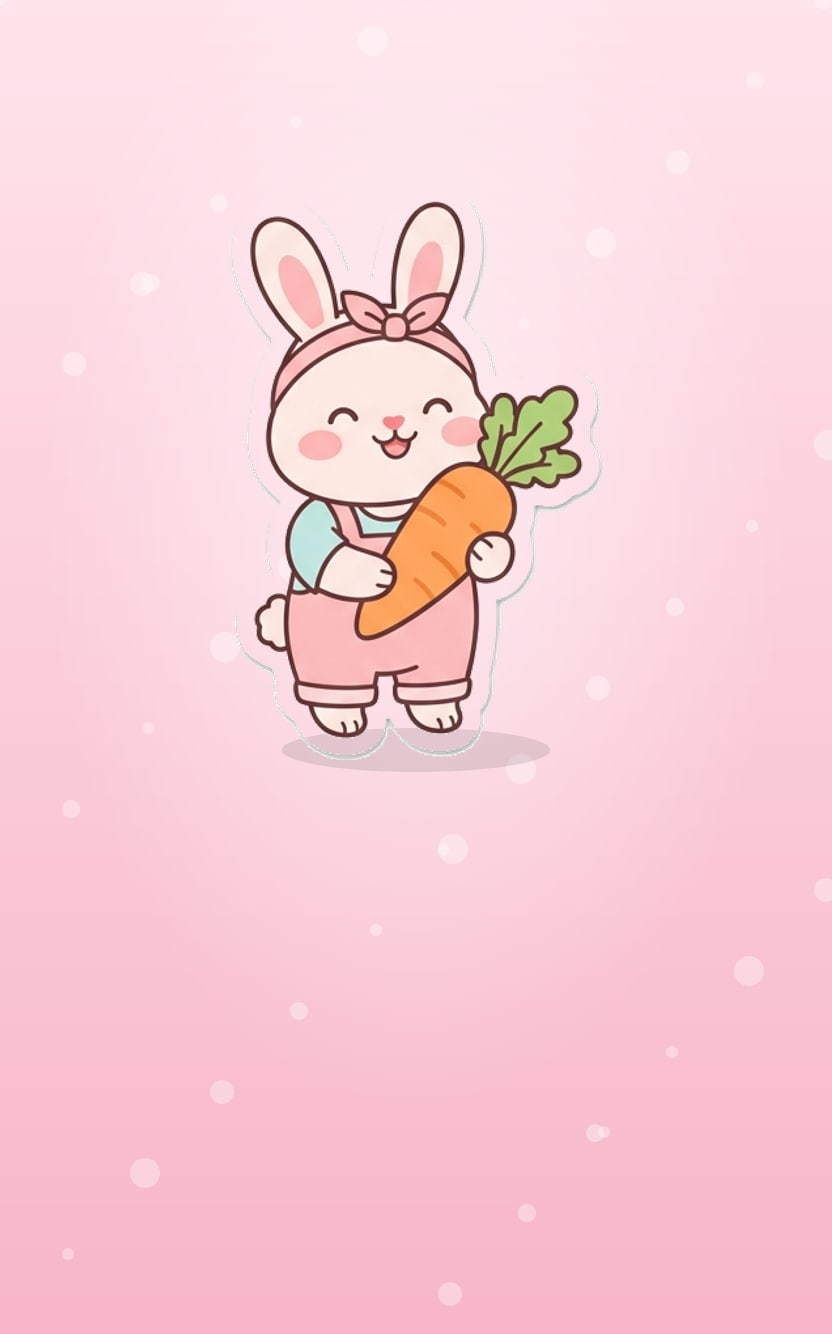
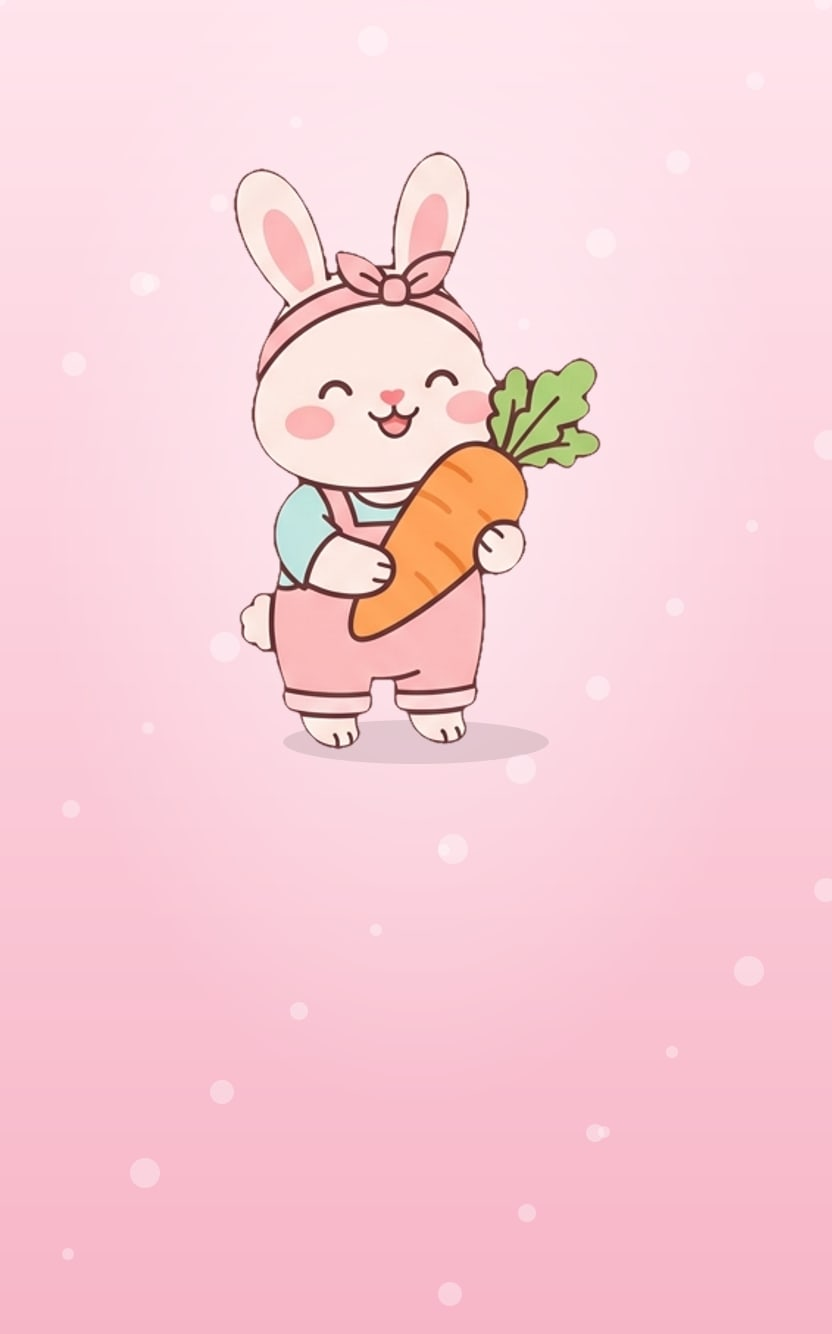
character plates rebuilt from the clean stickers (no white die-cut borders); BEAR now uses the big cocoa Toomdol

Changed region(s): [[0.2812, 0.1229, 0.7188, 0.584], [0.625, 0.5532, 0.6562, 0.584]]

diff --git a/scripts/make-character-plates.js b/scripts/make-character-plates.js
@@ -1,66 +1,32 @@
 #!/usr/bin/env node
-// MAZA 플래너 캐릭터(토끼·고양이·곰, 우리가 만든 그림)를 오려서 파스텔 배경 위에 올린 플레이트를 굽는다.
-//   node scripts/make-character-plates.js <planner/assets 폴더>
-// 스티커 시트에서 칸 하나를 잘라 → 가장자리에서 이어진 흰 바탕만 투명하게 → 배경 위 가운데 위쪽에 올린다 (아래쪽은 이름 자리).
+// 캐릭터 플레이트 6장 (메이커 기본 디자인): 깨끗하게 오린 스티커(assets/stickers) 를 파스텔 배경 위에 올린다.
+//   node scripts/make-character-plates.js
 const sharp = require('sharp');
 const path = require('path');
-
-const SRC = process.argv[2] || '/Volumes/M/GitHub/planner/assets';
+const A = path.join(__dirname, '..', 'assets');
 const W = 832, H = 1334;
 
-// [파일, 열 수, 행 수, 열, 행] 또는 이미 투명한 PNG
 const PLATES = [
-  { key: 'bear',   src: ['big_bear_cropped.png'],          bg: ['#fff3e4', '#f7c9a8'], dots: '#ffffff' },
-  { key: 'bunny',  src: ['ai_secret_rabbit.jpg', 2, 2, 0, 0], bg: ['#ffe4ec', '#f7b6c8'], dots: '#ffffff' },
-  { key: 'dream',  src: ['ai_secret_rabbit.jpg', 2, 2, 1, 0], bg: ['#1d2550', '#3b4a8f'], dots: '#fff6c8', stars: true },
-  { key: 'kitty',  src: ['ai_cat_stickers.jpg', 4, 4, 0, 1],  bg: ['#e3f6ef', '#a8dcc8'], dots: '#ffffff' },
-  { key: 'sleepy', src: ['ai_bear_stickers.jpg', 4, 3, 2, 0], bg: ['#ece6ff', '#bfb0f2'], dots: '#ffffff' },
-  { key: 'heart',  src: ['ai_bear_stickers.jpg', 4, 3, 0, 1], bg: ['#fff7d6', '#ffd978'], dots: '#ffffff' },
+  { key: 'bear',   id: 'bear-00',  bg: ['#fff3e4', '#f7c9a8'], dots: '#ffffff' },
+  { key: 'bunny',  id: 'bunny-01', bg: ['#ffe4ec', '#f7b6c8'], dots: '#ffffff' },
+  { key: 'dream',  id: 'bunny-02', bg: ['#1d2550', '#3b4a8f'], dots: '#fff6c8', stars: true },
+  { key: 'kitty',  id: 'cat-05',   bg: ['#e3f6ef', '#a8dcc8'], dots: '#ffffff' },
+  { key: 'sleepy', id: 'bear-03',  bg: ['#ece6ff', '#bfb0f2'], dots: '#ffffff' },
+  { key: 'heart',  id: 'bear-05',  bg: ['#fff7d6', '#ffd978'], dots: '#ffffff' },
 ];
-
-// 가장자리에서 이어진 밝은 바탕을 투명하게 (캐릭터 안의 흰색은 남는다)
-async function cutout(buf) {
-  const { data, info } = await sharp(buf).ensureAlpha().raw().toBuffer({ resolveWithObject: true });
-  const w = info.width, h = info.height, seen = new Uint8Array(w * h), stack = [];
-  const light = (i) => data[i * 4] > 232 && data[i * 4 + 1] > 232 && data[i * 4 + 2] > 232;
-  for (let x = 0; x < w; x++) { stack.push(x, (h - 1) * w + x); }
-  for (let y = 0; y < h; y++) { stack.push(y * w, y * w + w - 1); }
-  while (stack.length) {
-    const p = stack.pop(); if (seen[p] || !light(p)) continue;
-    seen[p] = 1; data[p * 4 + 3] = 0;
-    const x = p % w, y = (p / w) | 0;
-    if (x > 0) stack.push(p - 1); if (x < w - 1) stack.push(p + 1); if (y > 0) stack.push(p - w); if (y < h - 1) stack.push(p + w);
-  }
-  return sharp(data, { raw: { width: w, height: h, channels: 4 } }).png().toBuffer();
-}
-
-async function sticker(src) {
-  const [file, cols, rows, c, r] = src;
-  let img = sharp(path.join(SRC, file));
-  if (cols) {
-    const cw = Math.floor(1024 / cols), ch = Math.floor(1024 / rows);
-    const k = 14;   // 칸 가장자리에 걸친 옆 스티커 조각은 버린다
-    img = img.extract({ left: c * cw, top: r * ch + k, width: cw, height: ch - k });
-    const cell = await img.png().toBuffer();
-    const cut = await cutout(cell);
-    return sharp(cut).trim().png().toBuffer();
-  }
-  return sharp(path.join(SRC, file)).trim().png().toBuffer();
-}
 
 (async () => {
   for (const p of PLATES) {
-    const st = await sticker(p.src);
-    const size = 560;
-    const art = await sharp(st).resize(size, size, { fit: 'inside' }).png().toBuffer();
+    const size = 600;
+    const art = await sharp(path.join(A, 'stickers', p.id + '.png')).resize(size, size, { fit: 'inside' }).png().toBuffer();
     const m = await sharp(art).metadata();
     const dots = Array.from({ length: 38 }, (_, i) => `<circle cx="${(i * 151) % W}" cy="${(i * 283) % H}" r="${p.stars ? 2 + (i % 3) : 6 + (i % 4) * 3}" fill="${p.dots}" opacity="${p.stars ? .7 : .35}"/>`).join('');
+    const top = 150 + Math.round((size - m.height) / 2);
     const bg = `<svg xmlns="http://www.w3.org/2000/svg" width="${W}" height="${H}"><defs><linearGradient id="g" x1="0" y1="0" x2="0" y2="1"><stop offset="0" stop-color="${p.bg[0]}"/><stop offset="1" stop-color="${p.bg[1]}"/></linearGradient>
       <radialGradient id="glow" cx=".5" cy=".38" r=".45"><stop offset="0" stop-color="#fff" stop-opacity="${p.stars ? .18 : .55}"/><stop offset="1" stop-color="#fff" stop-opacity="0"/></radialGradient></defs>
       <rect width="100%" height="100%" fill="url(#g)"/>${dots}<rect width="100%" height="100%" fill="url(#glow)"/>
-      <ellipse cx="${W / 2}" cy="${200 + size * .5 + m.height / 2 - 10}" rx="${m.width * .36}" ry="22" fill="#000" opacity=".10"/></svg>`;
-    await sharp(Buffer.from(bg)).composite([{ input: art, left: Math.round((W - m.width) / 2), top: Math.round(200 + (size - m.height) / 2) }])
-      .jpeg({ quality: 86, mozjpeg: true }).toFile(path.join(__dirname, '..', 'assets', `plate_${p.key}.jpg`));
-    console.log('plate_' + p.key);
+      <ellipse cx="${W / 2}" cy="${top + m.height - 8}" rx="${m.width * .36}" ry="22" fill="#000" opacity=".10"/></svg>`;
+    await sharp(Buffer.from(bg)).composite([{ input: art, left: Math.round((W - m.width) / 2), top }]).jpeg({ quality: 86, mozjpeg: true }).toFile(path.join(A, `plate_${p.key}.jpg`));
+    console.log('plate_' + p.key, '←', p.id);
   }
 })();
